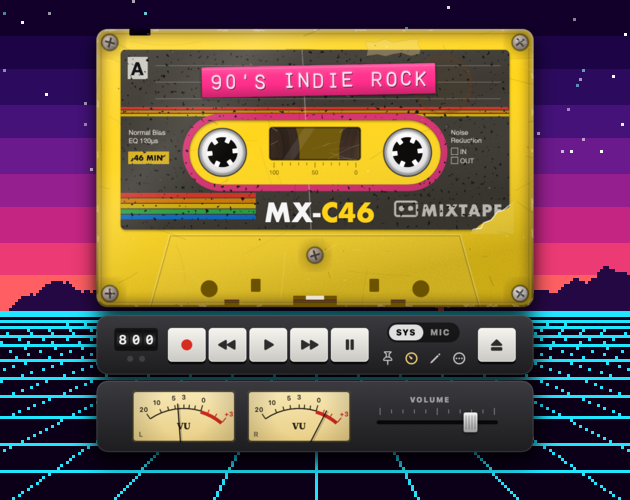
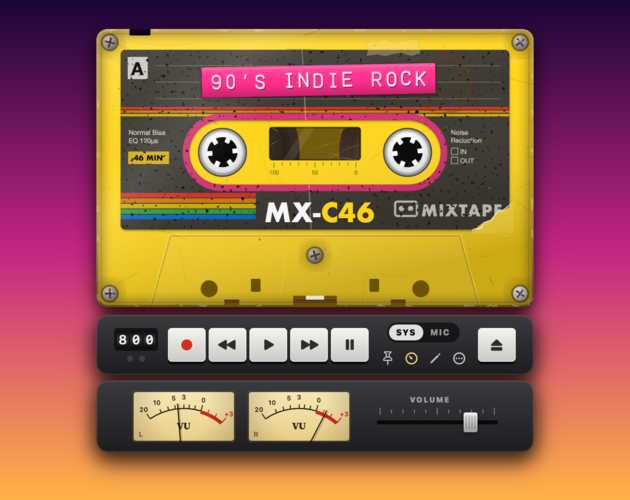
Phones: tape fills the screen sideways, tap to play, hold to wind; online player page
Phones won't run a tape opened straight from a mail attachment, so docs/play is a page on
GitHub Pages that opens a tape file chosen from the phone. Strips stay put unless being pressed.
The itch cover gets a plain sunset gradient.

diff --git a/Player/player.html b/Player/player.html
@@ -18,6 +18,15 @@
   body { display: flex; flex-direction: column; align-items: center; justify-content: center; min-height: 100%; padding: 24px 16px; }
   .deck { width: min(520px, 100%); user-select: none; -webkit-user-select: none; }
   canvas.tape { display: block; width: 100%; height: auto; }
+  /* On a phone: nothing but the tape, as big as the screen, turned to lie along its long side. Tap to play. */
+  html.phone, html.phone body { height: 100%; overflow: hidden; background: #000; }
+  html.phone body { padding: 0; display: block; }
+  html.phone body > *:not(.deck), html.phone .controls { display: none !important; }
+  html.phone canvas.tape { position: fixed; left: 50%; top: 50%; transform: translate(-50%, -50%) rotate(var(--turn, 0deg));
+    touch-action: manipulation; }
+  .tap-hint { display: none; }
+  html.phone .deck.fresh .tap-hint { display: block; position: fixed; left: 50%; top: 50%; transform: translate(-50%, -50%) rotate(var(--turn, 0deg))
+    translateY(38vmin); padding: 8px 16px; border-radius: 20px; background: rgba(0,0,0,.6); color: #fff; font-weight: 600; pointer-events: none; white-space: nowrap; }
   .controls { transition: opacity .25s ease, transform .25s ease; padding: 0 calc(40 / 520 * 100%); }
   .panel, .drawer { background: linear-gradient(#303136, #222327); border-radius: 12px; box-shadow: 0 8px 20px rgba(0,0,0,.45), inset 0 1px 0 rgba(255,255,255,.08); }
   .panel { display: flex; align-items: center; gap: 6px; padding: 10px 12px; margin-top: 2px; }
@@ -83,6 +92,7 @@
 <body>
 <div class="deck fresh" id="deck">
   <canvas class="tape" id="tape" width="520" height="350"></canvas>
+  <div class="tap-hint" id="tapHint">▶ Tap to play · hold right or left to wind</div>
   <div class="controls">
     <div class="panel">
       <div class="counter"><div class="digits" id="digits" title="Reset the counter"><span id="d0">0</span><span id="d1">0</span><span id="d2">0</span></div>
@@ -924,8 +934,57 @@ if (/^de\b/i.test(navigator.language || '')) {
   document.getElementById('note').innerHTML = 'Jemand hat dir ein Mixtape aufgenommen. Drück auf Play.<br>' +
     'Wenn du drüber aufnehmen und es zurückschicken willst: <a href="https://aeiou11235.itch.io/mixtape-app" target="_blank" rel="noopener">Mixtape für den Mac</a> – kostenlos.';
 }
-window.addEventListener('resize', fitCanvas);
-fitCanvas(); updateUI();
+// Phones get the tape alone, filling the screen: lying sideways when the phone is upright,
+// so turning the phone shows it the right way up. The margins around the cassette may run off.
+function layout() {
+  const phone = matchMedia('(pointer: coarse)').matches && Math.min(innerWidth, innerHeight) < 600;
+  document.documentElement.classList.toggle('phone', phone);
+  const s = tapeCanvas.style;
+  if (phone) {
+    const portrait = innerHeight > innerWidth;
+    const long = portrait ? innerHeight : innerWidth, short = portrait ? innerWidth : innerHeight;
+    const w = Math.min(long * 520 / 452, short * 520 / 292);
+    s.width = w + 'px'; s.height = w * 350 / 520 + 'px';
+    document.documentElement.style.setProperty('--turn', portrait ? '90deg' : '0deg');
+  } else {
+    s.width = s.height = '';
+    document.documentElement.style.removeProperty('--turn');
+  }
+  fitCanvas();
+}
+// On a phone: tap to play or pause; hold the right half of the tape to wind forward, the left half
+// to wind back. Letting go stops winding, and the tape plays on if it was playing.
+let hold = null;
+tapeCanvas.addEventListener('pointerdown', e => {
+  if (!document.documentElement.classList.contains('phone')) return;
+  e.preventDefault();
+  const r = tapeCanvas.getBoundingClientRect();
+  const portrait = getComputedStyle(document.documentElement).getPropertyValue('--turn').trim() === '90deg';
+  const along = portrait ? (e.clientY - r.top) / r.height : (e.clientX - r.left) / r.width;   // 0 left end … 1 right end
+  const key = along > .5 ? 'ff' : 'rew';
+  hold = { key, winding: false, wasPlaying: st.mode === 'playing' && !st.paused };
+  hold.timer = setTimeout(() => {
+    if (!hold) return;
+    hold.winding = true;
+    if (st.mode === 'playing') { stopActive(); setMode('stopped'); }
+    press(key);
+  }, 350);
+});
+const release = () => {
+  if (!hold) return;
+  clearTimeout(hold.timer);
+  const h = hold;
+  hold = null;
+  if (h.winding) {
+    if (st.mode === 'ffwd' || st.mode === 'rewind') press(h.key);   // the same key again stops winding
+    if (h.wasPlaying) press('play');
+  } else if (st.mode === 'playing') press('pause');
+  else press('play');
+};
+tapeCanvas.addEventListener('pointerup', release);
+tapeCanvas.addEventListener('pointercancel', release);
+window.addEventListener('resize', layout);
+layout(); updateUI();
 requestAnimationFrame(t => { last = t; tick(t); });
 </script>
 </body>

diff --git a/Sources/Deck.swift b/Sources/Deck.swift
@@ -764,32 +764,39 @@ final class Deck: NSObject, ObservableObject {
     @Published private(set) var hoverStrip: Int?
     @Published private(set) var tapeCorner: Int?
 
-    /// What the pointer is over: a corner of a strip (turn it), a strip (move it), or neither.
+    /// What the pointer is over: a corner of the strip being pressed (turn it), that strip (move it),
+    /// or neither. Strips that are stuck on stay put, so dragging them moves the cassette.
     enum TapeHover { case none, move, turn }
+
+    /// The strip being pressed, where it is right now.
+    private var editingFrame: Painter.EmbossFrame? {
+        guard embossing, let i = editingStrip else { return nil }
+        let strips = doc.strips(side)
+        guard i < strips.count else { return nil }
+        return Painter.stripFrame(strips[i], index: i, cells: embossDraft, design: doc.design, cursor: embossCursorPos, anchor: editAnchor)
+    }
 
     func tapeHover(_ p: CGPoint) -> TapeHover {
         var strip: Int?, corner: Int?, kind = TapeHover.none
-        for (i, f) in stripFrames {
-            if let c = Painter.embossCorner(f, p) { strip = i; corner = c; kind = .turn; break }
-            if Painter.embossContains(f, p) { strip = i; kind = .move; break }
+        if let f = editingFrame {
+            if let c = Painter.embossCorner(f, p) { strip = editingStrip; corner = c; kind = .turn }
+            else if Painter.embossContains(f, p) { strip = editingStrip; kind = .move }
         }
         if strip != hoverStrip { hoverStrip = strip }
         if corner != tapeCorner { tapeCorner = corner }
         return kind
     }
 
-    private var embossDrag: (strip: Int, start: CGPoint, frame: Painter.EmbossFrame, rotate: Bool, moved: Bool)?
+    private var embossDrag: (start: CGPoint, frame: Painter.EmbossFrame, rotate: Bool)?
 
-    /// Dragging a strip moves it; dragging a corner turns it around its centre.
+    /// While pressing: dragging the strip moves it, dragging a corner turns it around its centre.
     func beginEmbossDrag(at p: CGPoint, rotate: Bool) {
-        guard let i = hoverStrip ?? stripIndex(at: p), let f = stripFrames.first(where: { $0.0 == i })?.1 else { return }
-        embossDrag = (i, p, f, rotate, false)
+        guard let f = editingFrame else { return }
+        embossDrag = (p, f, rotate)
     }
 
     func moveEmbossDrag(to p: CGPoint) {
-        guard var d = embossDrag else { return }
-        var strips = doc.strips(side)
-        guard d.strip < strips.count else { return }
+        guard let d = embossDrag else { return }
         var f = d.frame
         if d.rotate {
             let a0 = atan2(d.start.y - f.center.y, d.start.x - f.center.x)
@@ -799,22 +806,15 @@ final class Deck: NSObject, ObservableObject {
             f.center.x = min(max(f.center.x + p.x - d.start.x, 0), Painter.W)
             f.center.y = min(max(f.center.y + p.y - d.start.y, 0), Painter.H)
         }
+        // The left end is what stays put while pressing, so the strip keeps growing from there.
         objectWillChange.send()
-        strips[d.strip].x = f.center.x
-        strips[d.strip].y = f.center.y
-        strips[d.strip].angle = f.angle
-        doc.setStrips(strips, side)
-        d.moved = true
-        embossDrag = d
+        editAnchor = Painter.anchor(of: f)
     }
 
     func endEmbossDrag() {
-        if embossDrag?.moved == true && transport != .recording { save() }
         embossDrag = nil
         objectWillChange.send()
     }
-
-    var draggingCorner: Bool { embossDrag?.rotate == true }
 
     /// Turns a strip back to level where it is.
     func straightenStrip(_ i: Int) {
@@ -970,7 +970,7 @@ final class Deck: NSObject, ObservableObject {
         if !doc.strips(side).isEmpty { tapeMenu.addItem(item(L("Alle abziehen"), #selector(peelAllItem))) }
         tapeMenu.addItem(.separator())
         for text in [L("Doppelklick auf die Kassette: neues Band an dieser Stelle"),
-                     L("Band ziehen verschiebt es, an den Ecken dreht es sich"),
+                     L("Doppelklick aufs Band: prägen, verschieben, an den Ecken drehen"),
                      L("Rechtsklick aufs Band: weiterprägen, ausrichten, abziehen")] {
             let hint = NSMenuItem(title: text, action: nil, keyEquivalent: "")
             hint.isEnabled = false

diff --git a/docs/play/index.html b/docs/play/index.html
@@ -1,0 +1,38 @@
+<!doctype html>
+<html lang="en">
+<head>
+<meta charset="utf-8">
+<meta name="viewport" content="width=device-width, initial-scale=1">
+<title>Play a Mixtape</title>
+<style>
+  html, body { margin: 0; height: 100%; background: linear-gradient(#1a0638, #c42583 60%, #ffb347); color: #fff;
+    font: 17px/1.45 -apple-system, BlinkMacSystemFont, "Helvetica Neue", Arial, sans-serif; }
+  main { min-height: 100%; display: flex; flex-direction: column; align-items: center; justify-content: center; text-align: center; padding: 24px; box-sizing: border-box; }
+  h1 { font-size: 26px; margin: 0 0 8px; }
+  p { max-width: 30em; margin: 6px 0; }
+  .pick { display: inline-block; margin: 22px 0 14px; padding: 14px 28px; border-radius: 30px; background: #fff; color: #1a0638; font-weight: 700; cursor: pointer; }
+  .small { font-size: 14px; opacity: .85; }
+</style>
+</head>
+<body>
+<main>
+  <h1>Someone made you a mixtape.</h1>
+  <p>Choose the tape file you were sent – it ends in <b>.html</b>.</p>
+  <label class="pick">Choose the tape<input type="file" id="file" accept=".html,.htm,text/html" hidden></label>
+  <p class="small">On an iPhone, first save the attachment to Files (tap it, then Share → Save to Files).<br>
+    The tape stays on your phone: nothing is uploaded.</p>
+</main>
+<script>
+// Phones won't run a tape opened straight from a mail attachment; loaded from here it plays like any web page.
+document.getElementById('file').addEventListener('change', async e => {
+  const f = e.target.files[0];
+  if (!f) return;
+  const html = await f.text();
+  if (!html.includes('const TAPE = ')) { alert('That file is not a Mixtape tape.'); return; }
+  document.open();
+  document.write(html);
+  document.close();
+});
+</script>
+</body>
+</html>

diff --git a/Sources/Emboss.swift b/Sources/Emboss.swift
@@ -183,7 +183,7 @@ extension Painter {
         if let i = s.editingStrip, i < s.strips.count, let cells = s.embossCells {
             let t = s.strips[i]
             let f = stripFrame(t, index: i, cells: cells, design: s.design, cursor: s.embossCursor, anchor: s.editAnchor)
-            drawStrip(&ctx, t, cells, f, cursor: s.embossCursorVisible ? s.embossCursor : nil, corner: nil)
+            drawStrip(&ctx, t, cells, f, cursor: s.embossCursorVisible ? s.embossCursor : nil, corner: s.hoverStrip == i ? s.embossCorner : nil)
         }
     }
 

diff --git a/Sources/Localization.swift b/Sources/Localization.swift
@@ -17,6 +17,7 @@ private let english: [String: String] = [
     "Prägeband": "Label Tape",
     "Neues Band – das alte abschneiden": "New strip – cut off the old one",
     "Weiteres Band prägen": "Press Another Strip",
+    "Doppelklick aufs Band: prägen, verschieben, an den Ecken drehen": "Double-click a strip: press, move, turn it by its corners",
     "Alle abziehen": "Peel All Off",
     "Weiterprägen": "Press On",
     "Gerade ausrichten": "Straighten",
